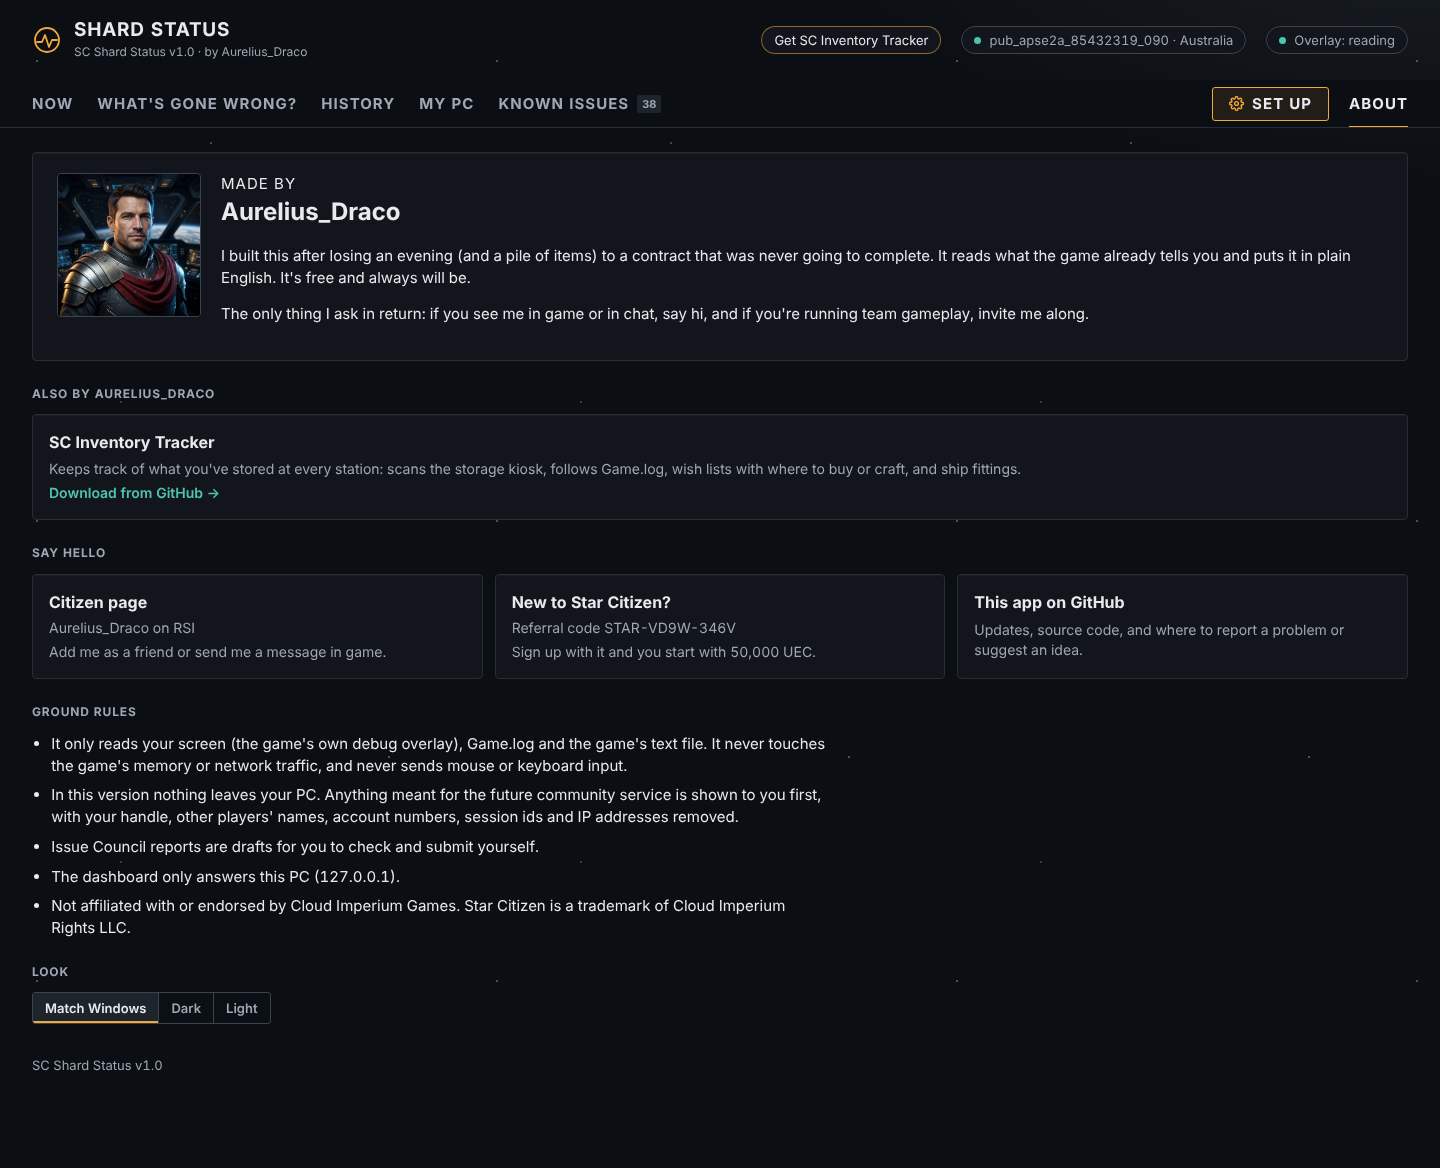
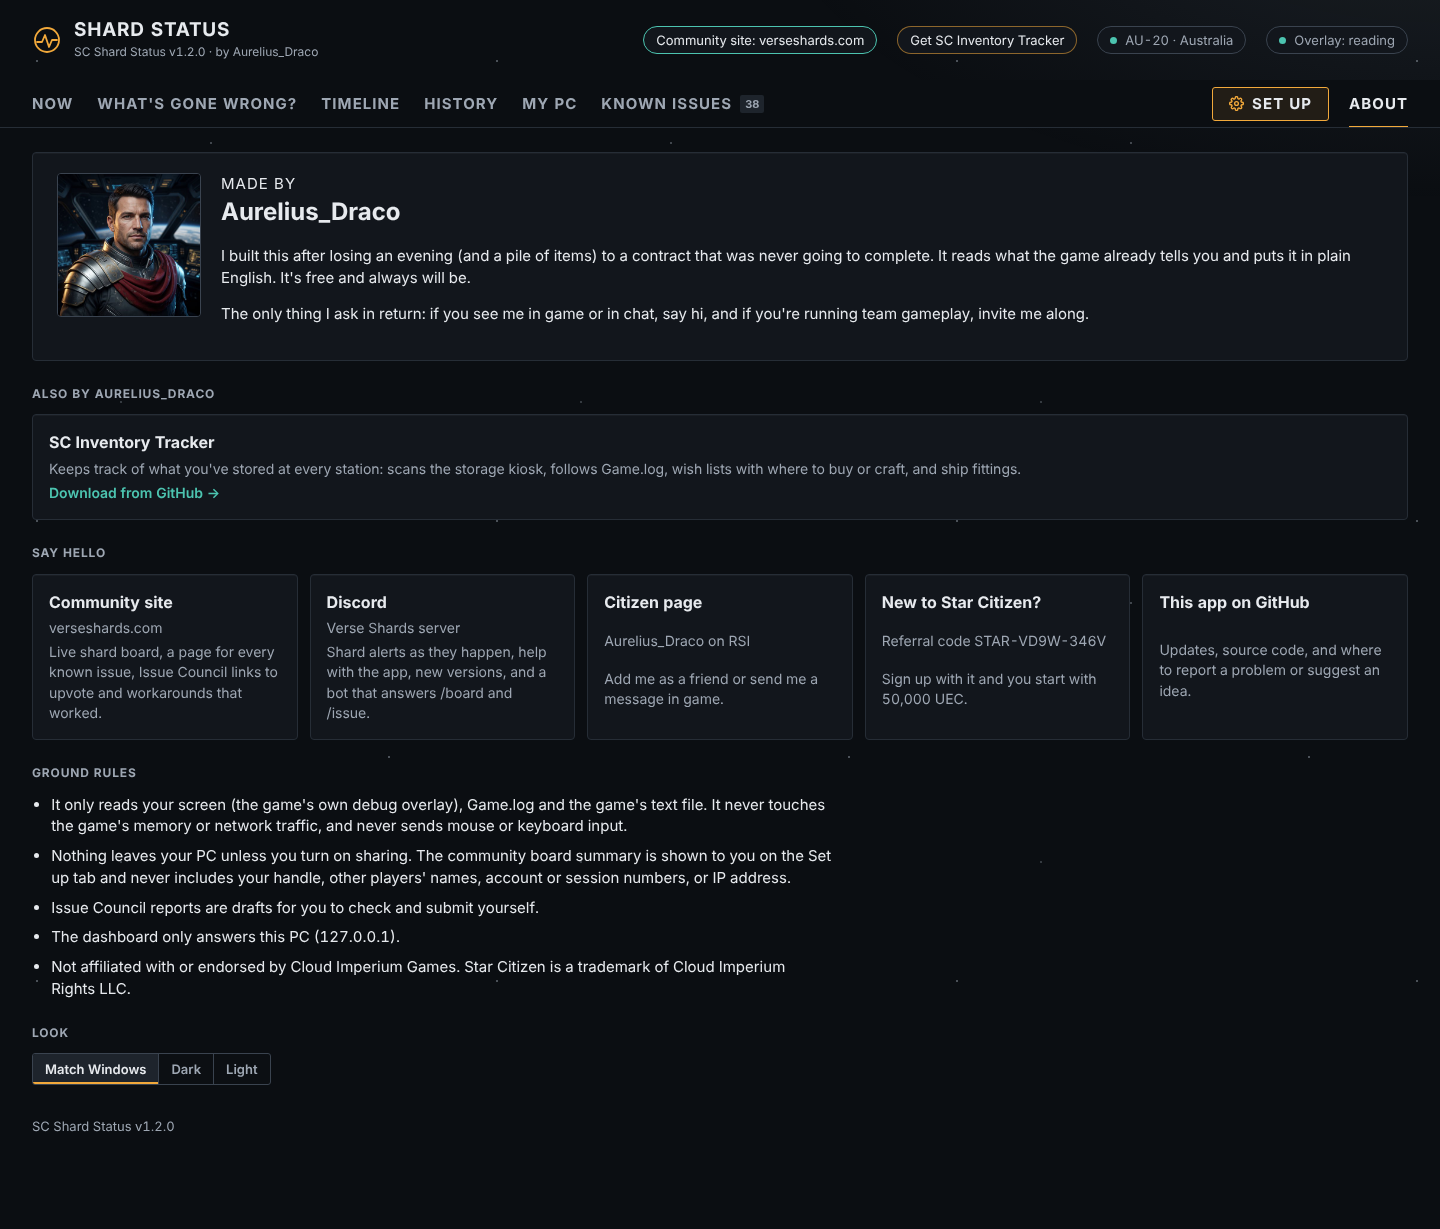
Region card dots show their colour; showcase: no set-up dialog, made-up local board per scenario, real location codes, Timeline shot; fresh screenshots
Claude-Session: https://claude.ai/code/session_013FyQtGebVrWHnaiNqvQCKr

diff --git a/scstatus/static/index.html b/scstatus/static/index.html
@@ -252,7 +252,7 @@ td.bad { color: var(--rust); font-weight: 600; } td.okc { color: var(--teal); }
 .tile .go { color: var(--teal); font-weight: 600; font-size: .875rem; }
 table.comm .score { display: inline-flex; align-items: center; gap: var(--s2); font-weight: 700; }
 table.comm .score i { width: 9px; height: 9px; border-radius: 50%; background: var(--muted); }
-.score.good i { background: var(--teal); } .score.ok i { background: var(--fresh); } .score.poor i { background: var(--amber); } .score.bad i { background: var(--rust); }
+table.comm .score.good i { background: var(--teal); } table.comm .score.ok i { background: var(--fresh); } table.comm .score.poor i { background: var(--amber); } table.comm .score.bad i { background: var(--rust); }
 table.comm tr.me td { background: var(--sel); }
 .promo { display: grid; grid-template-columns: minmax(0, 1fr) auto; gap: 2px var(--s5); align-items: center; padding: var(--s4) var(--s5); text-decoration: none; color: var(--text); }
 .promo:hover { border-color: var(--amber-line); color: var(--text); }

diff --git a/tools/showcase.py b/tools/showcase.py
@@ -177,7 +177,7 @@ SCENARIOS = {
     "struggling": dict(fps=7.2, spread=2.4, ping=118, loss=0.8, hitches=3, restart=False, client=71),
     "bad": dict(fps=3.4, spread=1.6, ping=262, loss=4.0, hitches=6, restart=True, client=58),
 }
-LOCATIONS = ["RR_CRU_L4", "Area18", "Orison", "Lorville", "New Babbage", "Baijini Point", "Port Tressler"]
+LOCATIONS = ["RR_HUR_LEO", "Stanton1", "RR_CRU_L1", "Stanton2", "Stanton2", "RR_CRU_L4"]   # the game's own codes; ends at CRU-L4
 
 
 def readings(app, shard, kind, rnd, now):
@@ -203,6 +203,71 @@ def readings(app, shard, kind, rnd, now):
                     "vram_used_mb": 9250, "vram_total_mb": 16304,
                     "location": LOCATIONS[(i // 12) % len(LOCATIONS)]})
     return out
+
+
+MY_BOARD = {"healthy": (92, "good", 20.8, 37), "struggling": (45, "poor", 6.9, 46), "bad": (18, "bad", 3.4, 49)}
+
+
+def fake_board(mine, kind="healthy"):
+    """A made-up community board for the region card: served from this PC only, never the real site."""
+    def sv(node, players, fps, areas):
+        cls = "good" if fps >= 15 else "ok" if fps >= 9 else "bad"
+        return {"node": node, "players": players, "server_fps": fps, "label": "", "cls": cls, "reporters": 2,
+                "areas": [{"area": a, "name": n, "system": "pyro" if a.startswith("pyro") else "stanton", "reporters": 1}
+                          for a, n in areas]}
+    base = mine.rsplit("_", 1)[0]
+    others = [n for n in ("110", "060", "040", "130") if not mine.endswith("_" + n)][:3]
+    shards = [
+        {"shard_id": f"{base}_{others[0]}", "score": 96, "cls": "good", "label": "Healthy", "server_fps": 21.4, "pop_shard": 388, "reporters": 9,
+         "servers": [sv("03", 31, 21.8, [("crusader", "Crusader")]), sv("05", 44, 20.6, [("pyro3", "Bloom"), ("pyro-space", "Pyro, open space")]),
+                     sv("01", 52, 21.0, [("hurston", "Hurston")])]},
+        {"shard_id": mine, "score": MY_BOARD[kind][0], "cls": MY_BOARD[kind][1], "label": "", "server_fps": MY_BOARD[kind][2],
+         "pop_shard": 431 if kind == "healthy" else 612, "reporters": 6,
+         "servers": [sv("07", MY_BOARD[kind][3], MY_BOARD[kind][2], [("crusader", "Crusader")]), sv("02", 61, 18.2, [("microtech", "microTech")])]},
+        {"shard_id": f"{base}_{others[1]}", "score": 61, "cls": "ok", "label": "Slow", "server_fps": 11.6, "pop_shard": 598, "reporters": 7,
+         "servers": [sv("04", 78, 9.4, [("arccorp", "ArcCorp")]), sv("06", 66, 12.8, [("pyro3", "Bloom")])]},
+        {"shard_id": f"{base}_{others[2]}", "score": 34, "cls": "bad", "label": "Struggling", "server_fps": 5.8, "pop_shard": 642, "reporters": 4,
+         "servers": [sv("02", 91, 5.1, [("crusader", "Crusader")])]},
+    ]
+    from scstatus.community import shard_name
+    for x in shards:
+        x["name"] = shard_name(x["shard_id"])
+    shards.sort(key=lambda x: -x["score"])
+    pick = lambda x, v: {"shard_id": x["shard_id"], "shard": x["name"], "node": v["node"], "area": v["areas"][0]["area"],
+                         "area_name": v["areas"][0]["name"], "system": v["areas"][0]["system"], "players": v["players"],
+                         "server_fps": v["server_fps"], "cls": v["cls"], "reporters": 2}
+    allv = [(x, v) for x in shards for v in x["servers"]]
+    ok = sorted([p for p in allv if p[1]["server_fps"] >= 12], key=lambda p: p[1]["players"])
+    return {"updated": time.time(), "reporters": 26, "regions": [{"name": "Australia", "shards": shards}],
+            "areas": [{"region": "Australia", "quiet": [pick(*p) for p in ok[:3]],
+                       "busy": [pick(*p) for p in sorted(allv, key=lambda p: -p[1]["players"])[:3]]}]}
+
+
+def fake_site(holder):
+    """Answers the companion's board and RSI requests on this PC, so the screenshots never touch verseshards.com."""
+    import json as _json
+    import threading
+    from http.server import BaseHTTPRequestHandler, ThreadingHTTPServer
+
+    class H(BaseHTTPRequestHandler):
+        def log_message(self, *a):
+            pass
+
+        def do_GET(self):
+            body = holder["board"] if self.path.startswith("/api/v1/board") else \
+                {"summary": "operational", "systems": [], "issues": [], "problem": False}
+            data = _json.dumps(body).encode()
+            self.send_response(200)
+            self.send_header("content-type", "application/json")
+            self.end_headers()
+            self.wfile.write(data)
+
+        def do_POST(self):                 # sharing stays off, but answer politely if anything tries
+            self.send_response(403)
+            self.end_headers()
+    srv = ThreadingHTTPServer(("127.0.0.1", 0), H)
+    threading.Thread(target=srv.serve_forever, daemon=True).start()
+    return f"http://127.0.0.1:{srv.server_address[1]}"
 
 
 def past_readings(app, rnd, now):
@@ -245,6 +310,7 @@ def main():
                read_screenshots=False,
                # Never talk to the real community site from a demo (made-up readings would land on the live board)
                community_url="http://127.0.0.1:9", share_readings=False, community_board=False)
+    cfg["setup_version"] = appmod.App.SETUP_VERSION          # set-up already done, so no dialog over the pages
     app = appmod.App(cfg)
     app.start(overlay=False)
 
@@ -259,6 +325,12 @@ def main():
     now = time.time()
     past_readings(app, rnd, now)
     shard = (app.session.shard_id if app.session and app.session.shard_id else "pub_apse2a_43711962_090")
+    # The region card on the Now tab: a made-up board served from this PC (sharing stays off)
+    holder = {"board": fake_board(shard)}
+    app.cfg.update(community_url=fake_site(holder), community_board=True)
+    app.community.url = app.cfg["community_url"]
+    app.community.tick()
+    print("Board for the region card:", "loaded" if app.community.board else "missing", flush=True)
 
     from scstatus.dashboard import start_server
     server, url = start_server(app)
@@ -283,6 +355,7 @@ def main():
             print("  saved", name, flush=True)
 
         def scenario(kind):
+            holder["board"] = app.community.board = fake_board(shard, kind)
             with app.lock:
                 app.snaps.clear()
             for s in readings(app, shard, kind, random.Random(kind), time.time()):
@@ -311,11 +384,11 @@ def main():
 
         scenario("healthy")
         for n, tab in (("6-history", "history"), ("7-my-pc", "pc"), ("8-known-issues", "issues"),
-                       ("9-set-up", "setup"), ("10-about", "about")):
+                       ("9-set-up", "setup"), ("10-about", "about"), ("13-timeline", "timeline")):
             p = page()
             p.click(f'[data-tab="{tab}"]')
             p.wait_for_timeout(1500)
-            shot(p, n, full=tab not in ("issues", "setup"), h=1400 if tab in ("issues", "setup") else None)
+            shot(p, n, full=tab not in ("issues", "setup", "timeline"), h=1400 if tab in ("issues", "setup", "timeline") else None)
             p.close()
         p = page("light")
         shot(p, "11-now-light-theme", full=True)
